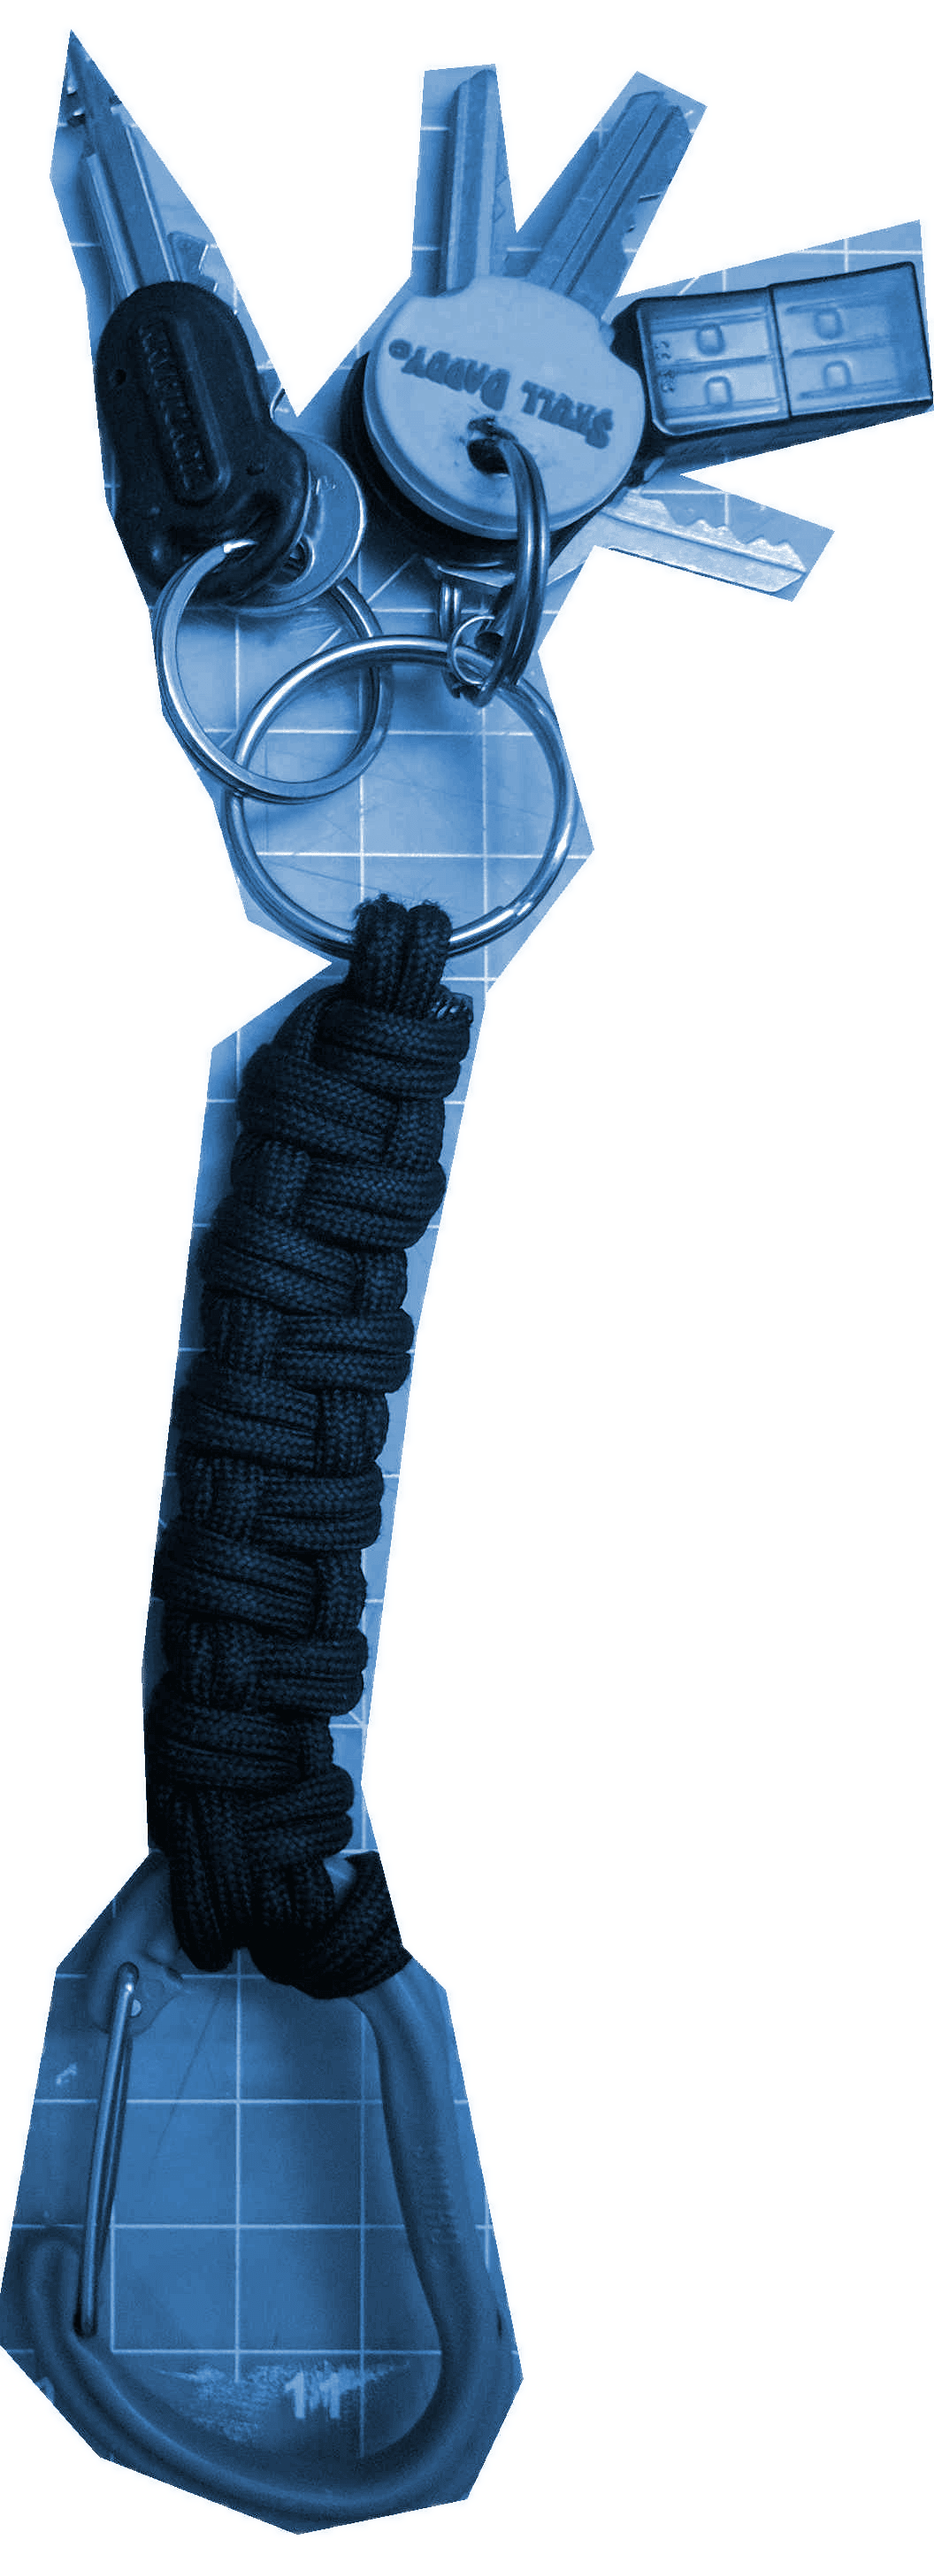
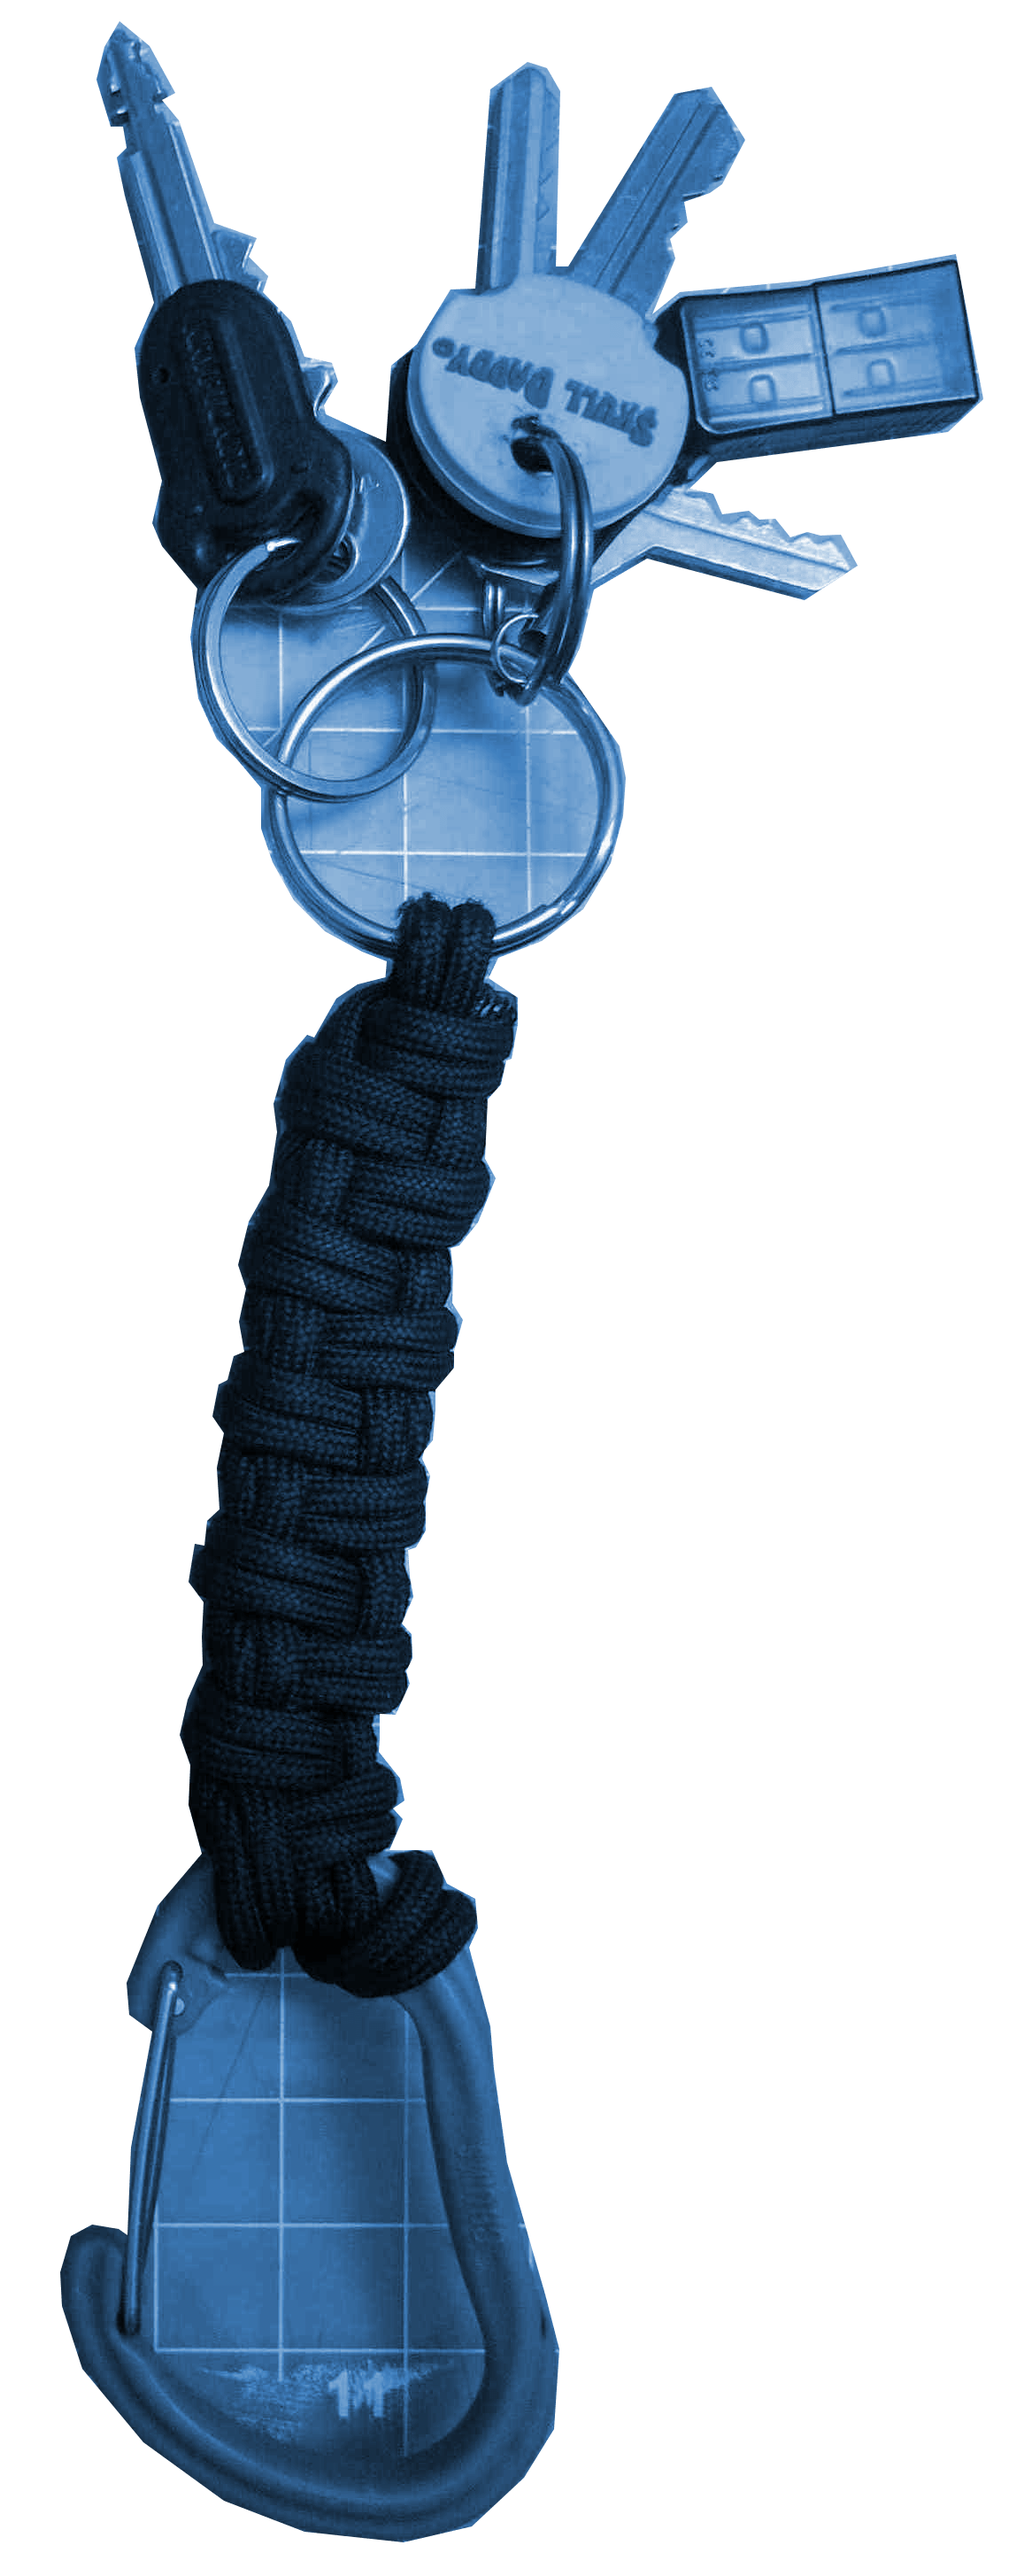
studio 3 image edit

Changed region(s): [[0.0, 0.0, 1.0, 0.9945]]

diff --git a/studio3/script.js b/studio3/script.js
@@ -56,12 +56,12 @@ document.addEventListener('DOMContentLoaded', function() {
   //watch hover event listener
   watch.addEventListener('mouseover', function() {
     watch.style.opacity=1;
-    watch.src='images/watch.jpg';
+    watch.src='images/watch.png';
   });
   //watch mouseout event listener
   watch.addEventListener('mouseout', function() {
     watch.style.opacity=0;
-    watch.src='images/watch.jpg';
+    watch.src='images/watch.png';
   });
   //watch click
   watch.addEventListener('click', function() {

diff --git a/studio3/style.css b/studio3/style.css
@@ -62,9 +62,9 @@ header {
 
 #watch {
   position: absolute;
-  width: 45px;
-  top: 0px;
-  left: 290px;
+  width: 80px;
+  top: 8px;
+  left: 276px;
   display: block;
   opacity: 0;
 }
@@ -81,8 +81,8 @@ header {
 
 #keys {
   position: absolute;
-  width: 180px;
-  top: -5px;
+  width: 175px;
+  top: 7px;
   left: 360px;
   display: block;
   opacity: 0;

diff --git a/studio3/index.html b/studio3/index.html
@@ -28,7 +28,7 @@
 					
 			</aside>
 		<!--watch-->
-		<img src="images/watch.jpg" alt="watch" id="watch">
+		<img src="images/watch.png" alt="watch" id="watch">
 			<aside id="watchInfo">
                 
                 <div id="close3">&otimes;</div>
